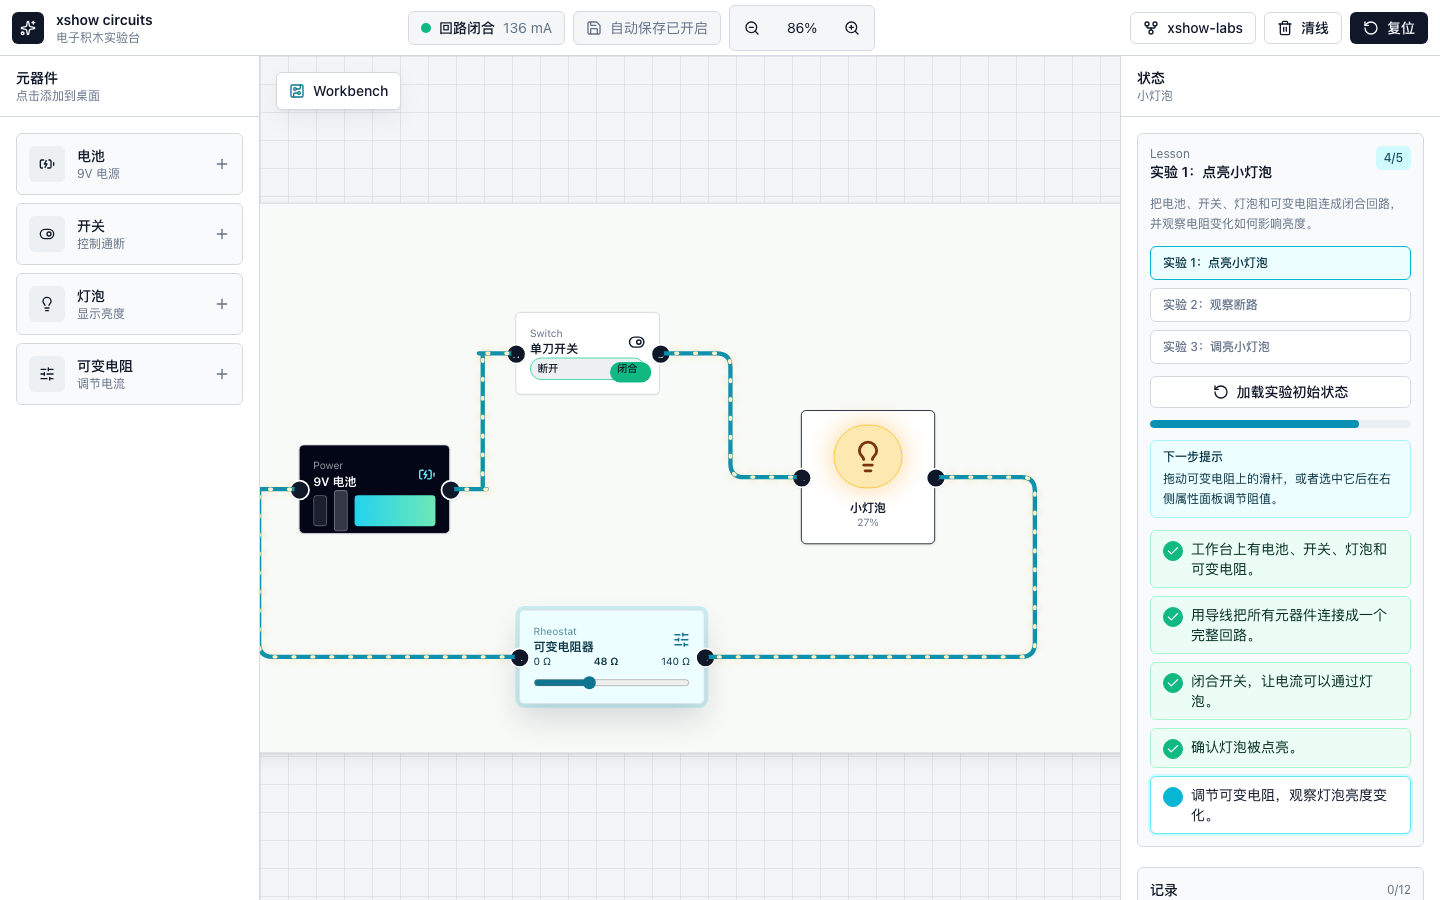
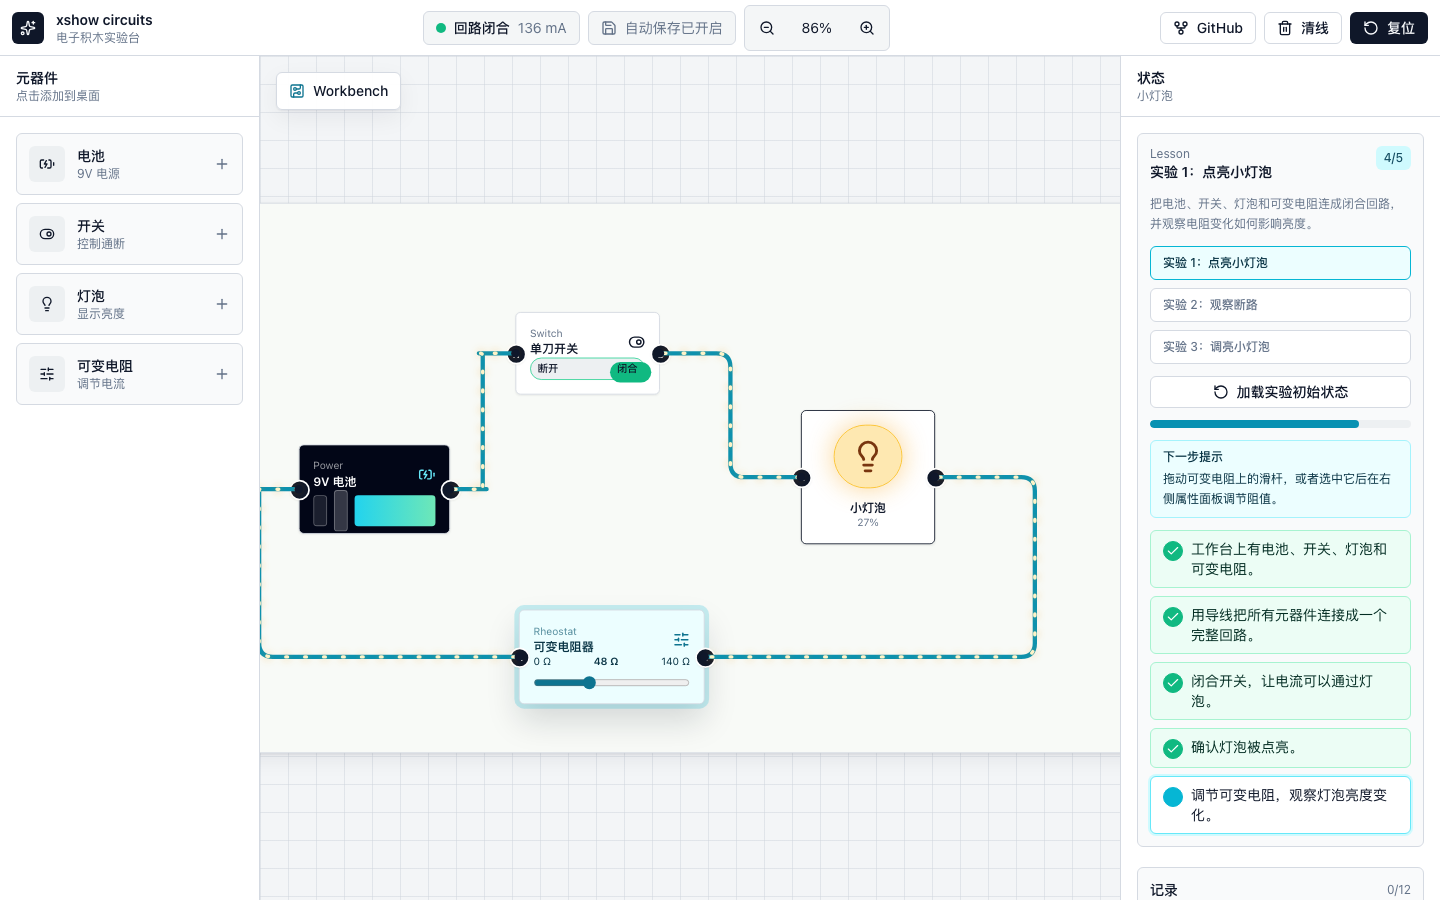
fix: point repository link to current repo

Changed region(s): [[0.2812, 0.0, 0.5312, 0.0622], [0.7812, 0.0, 0.8438, 0.0622]]

diff --git a/src/views/Home.vue b/src/views/Home.vue
@@ -84,7 +84,7 @@ type SavedWorkspaceRecord = PersistedWorkspace & {
 
 const savedWorkspaceKey = "xshow.workspace.v1";
 const savedRecordsKey = "xshow.workspace.records.v1";
-const githubRepositoryUrl = "https://github.com/xshow-labs/xshow";
+const githubRepositoryUrl = "https://github.com/glwang-g/xshow";
 const board = useBoardStore();
 const workbenchRef = ref<HTMLElement | null>(null);
 const activeLessonId = ref(lessonCatalog[0].id);
@@ -1407,11 +1407,11 @@ watch([parts, wires, selectedPartId, activeLessonId, () => board.zoom], schedule
           target="_blank"
           rel="noreferrer"
           class="inline-flex h-8 shrink-0 items-center justify-center gap-2 rounded-md border border-border bg-card px-3 text-sm font-medium transition-colors hover:bg-muted"
-          title="xshow-labs GitHub 仓库"
-          aria-label="打开 xshow-labs GitHub 仓库"
+          title="GitHub 仓库"
+          aria-label="打开 GitHub 仓库"
         >
           <GitFork class="h-4 w-4" />
-          xshow-labs
+          GitHub
         </a>
         <Button variant="outline" size="sm" @click="clearWires">
           <Trash2 class="h-4 w-4" />